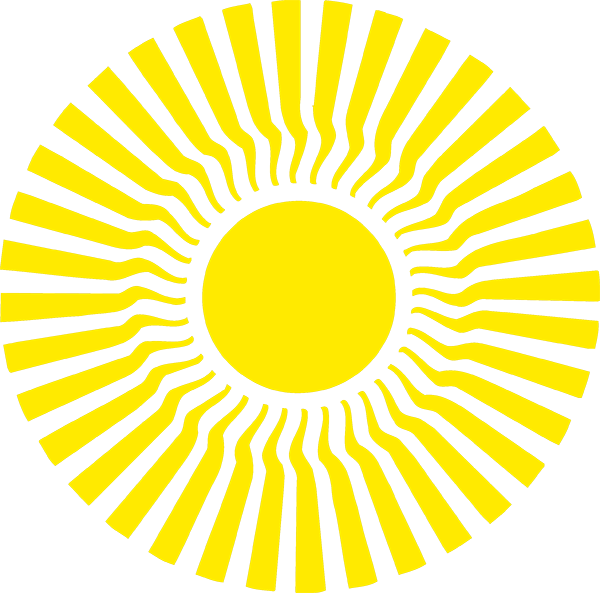
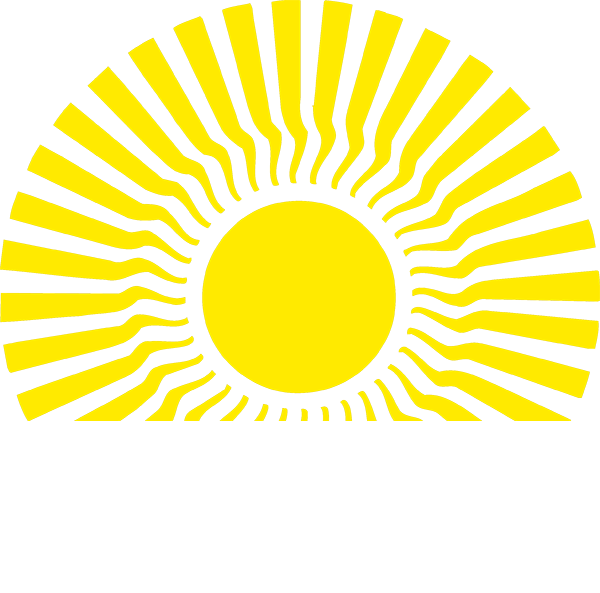
changed opacity on navbar and cropped sun image to remove from body

Changed region(s): [[0.06, 0.6981, 0.9, 1.0], [0.87, 0.6981, 0.96, 0.7589]]

diff --git a/src/App.css b/src/App.css
@@ -34,10 +34,10 @@
   top: 70px;
   left: 0;
   width: 100vw;
-  background-color: rgba(100,20,255,.1);
+  background-color: rgba(168,240,255,1);
   height: 1.2em;
   padding-bottom: 5px;
-  z-index: -1;
+  z-index: 1;
 }
 
 .App-component {
@@ -66,10 +66,12 @@
 }
 
 .menuTile {
-  color: rgba(100,20,255,.6);
+  /*color: rgba(100,20,255,.6);*/
+  color: white;
   margin: 10px;
   z-index: 1000;
   text-decoration: none;
+  font-weight: bold;
   font-size: 1.2em;
 }
 
